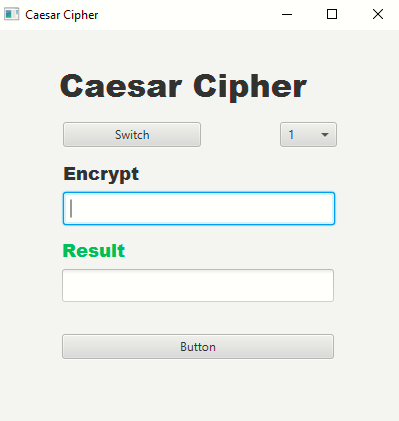
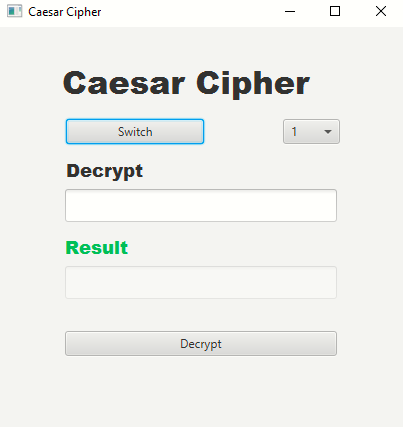
commit

diff --git a/src/Controller.java b/src/Controller.java
@@ -45,7 +45,9 @@ public class Controller {
 
         numCb.getSelectionModel().selectFirst();
 
-        System.out.println();
+        resultTf.setDisable(true);
+
+        button.setText("Encrypt");
     }
 
     @FXML
